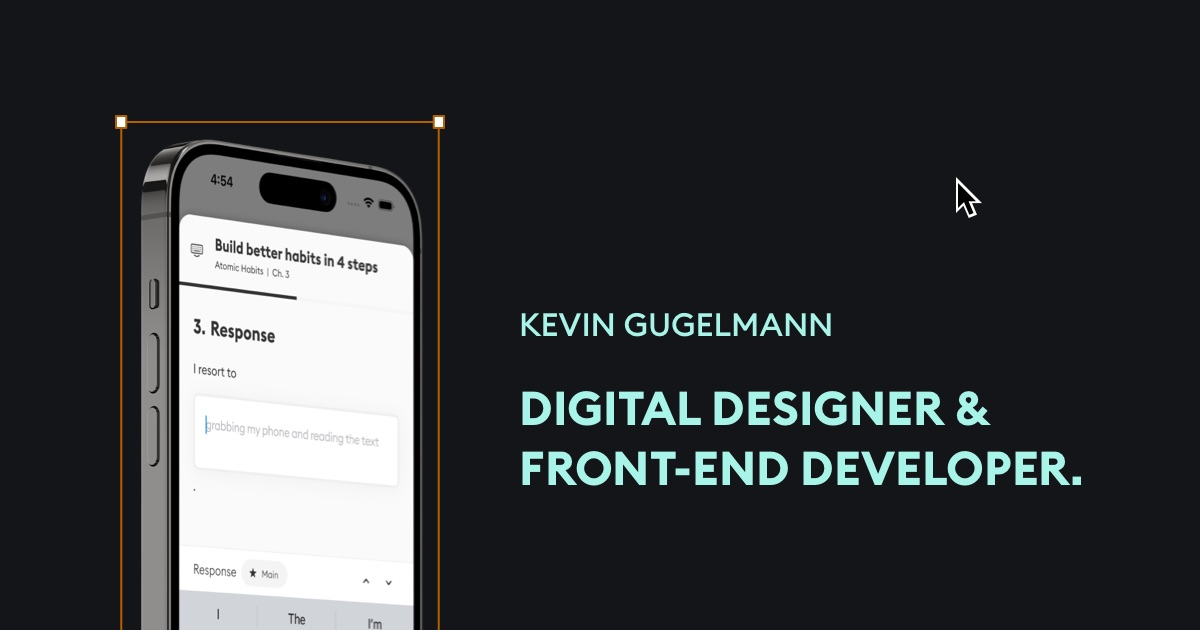
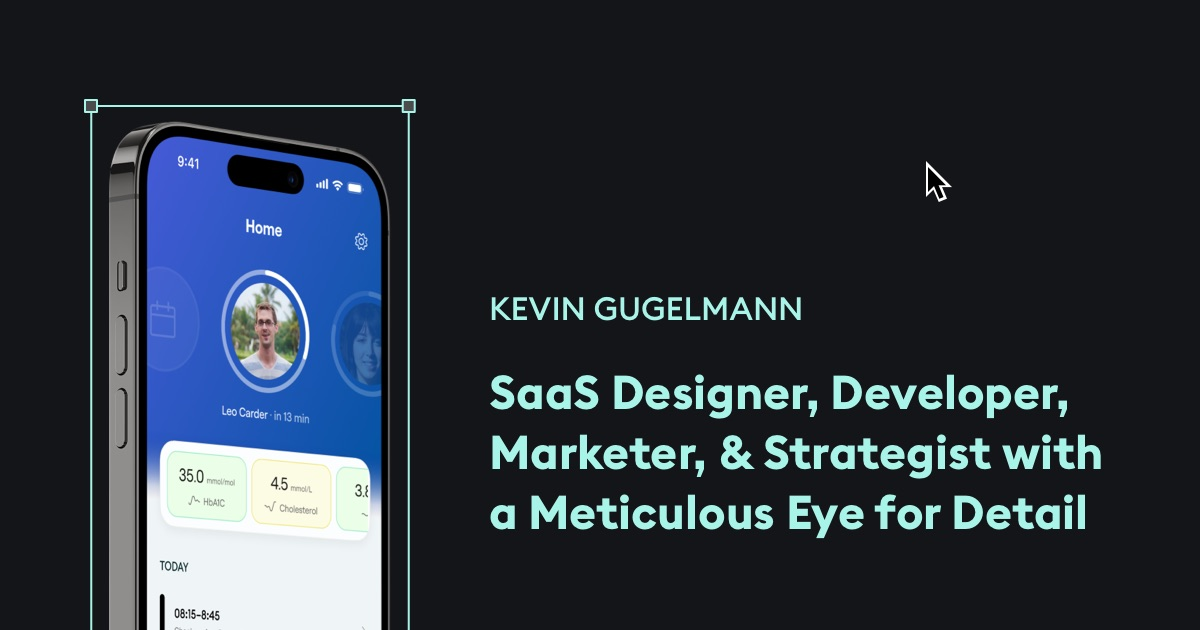
Updated website preview img

diff --git a/src/lib/views/HeroSection.svelte b/src/lib/views/HeroSection.svelte
@@ -131,8 +131,6 @@
           class="text-glacial-blue
                 mb-8 xl:mb-12"
         >
-          <!-- Meticulous tech optimist designing, developing, and marketing Polished
-          SaaS. -->
           SaaS Designer, Developer, Marketer, & Strategist with a Meticulous Eye
           for Detail
         </h1>
